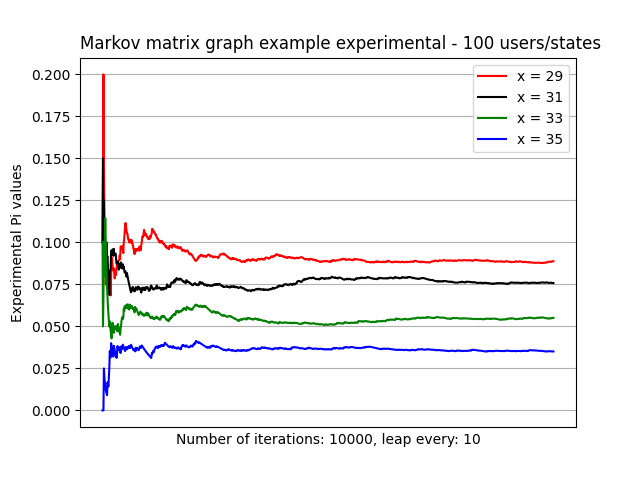
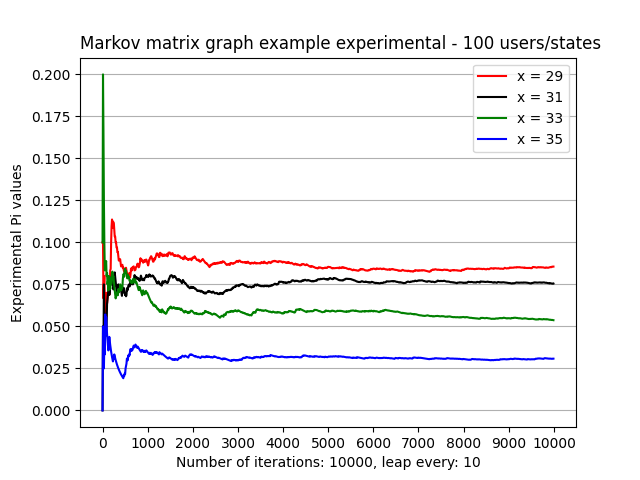
Classes 2 exC update, exD

Changed region(s): [[0.1562, 0.1562, 0.875, 0.8438], [0.1562, 0.9062, 0.9062, 1.0]]

diff --git a/statistics/classes_2/exD/exD.py b/statistics/classes_2/exD/exD.py
@@ -1,6 +1,11 @@
-# A script where we have N amount of users and N amount of states. Probability to log in = 0.2, probability to log out
-# = 0.5. We simulate the trajectory - at each iteration each user have a change to be logged in or logged out (
-# depending on users current state). We need to construct convergence graph.
+# A script where we have N amount of users and N amount of states (same as exC but with different logging probability).
+# Probabilities:
+# Log in = 0.2
+# Stay logged out = 0.8
+# Log out = 1 - (0.008 * current state + 0.1)
+# Stay logged in = 0.008 * current state + 0.1
+# We simulate the trajectory - at each iteration each user have a change to be logged in or logged out (depending on
+# users current state). We need to construct convergence graph.
 # Values of Pi show the pursuit of a value to a stationary state.
 # e.g.: At first we have state 0, because all users are logged out. After one iteration 5 users logged in - current
 # state is 5, and so on. On the graph we show can show selected states.
@@ -23,16 +28,19 @@ def change_state(users_list: list, iterations: int, x_to_track: int, leap: int) 
     status_dic: dict = {x: 0 for x in range(len(users_list) + 1)}  # collecting number of occurrences of a given state
     chances_population: list = [0, 1]  # list for tracking if each user state: 0 - logged out, 1 - logged in
     chances_not_logged: list = [0.8, 0.2]  # probabilities to [stay logged out, log in] when user is not logged in
-    chances_logged: list = [0.5, 0.5]  # probabilities to [stay logged in, log out] when user is logged in
     results: list = []
 
     # main function logic
     for iteration in range(1, iterations + 1):
+        current_x = sum(users_list)
+        current_login_chance = 0.008 * current_x + 0.1
+        current_logout_chance = 1 - current_login_chance
+        chances_logged_weights = [current_logout_chance, current_login_chance]
         for idx, user in enumerate(users_list):
             if user == 0:
                 users_list[idx] = random.choices(chances_population, chances_not_logged)[0]
             else:
-                users_list[idx] = random.choices(chances_population, chances_logged)[0]
+                users_list[idx] = random.choices(chances_population, chances_logged_weights)[0]
         status_dic[sum(users_list)] += 1  # sum number of 1's in list - number of logged in users (current state)
         if iteration % leap == 0:
             results.append(status_dic[x_to_track] / iteration)
@@ -63,7 +71,7 @@ def show_graph(num_of_iterations: int, users: list, leap: int, xs_to_track: tupl
     plt.ylabel(f"Experimental Pi values")
     plt.xlabel(f"Number of iterations: {num_of_iterations}, leap every: {leap}")
     plt.title(f"Markov matrix graph example experimental - {len(users)} users/states", loc='left')
-    plt.legend()
+    plt.legend(loc='upper right')
     plt.savefig(f"example1.png")
     plt.show()
 
@@ -77,7 +85,7 @@ def main() -> None:
     users: list = [0 for _ in range(1, 101)]
     iterations: int = 10000
     leap: int = 10
-    xs_to_track: tuple = (29, 31, 33, 35)
+    xs_to_track: tuple = (20, 25, 30, 35)
 
     # functions calling
     show_graph(num_of_iterations=iterations,
